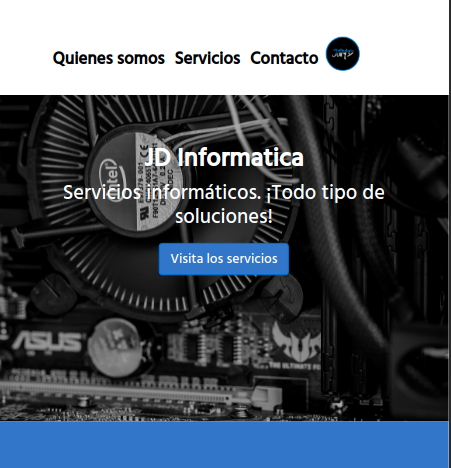
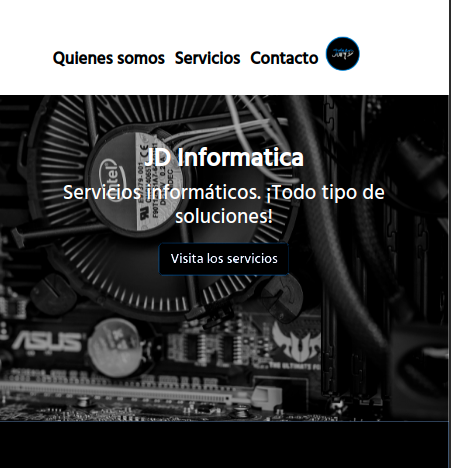
some changes in design, esp/eng next

Changed region(s): [[0.0, 0.8974, 1.0, 1.0], [0.3415, 0.5085, 0.6519, 0.5983]]

diff --git a/index.html b/index.html
@@ -11,11 +11,15 @@
   </head>
   <body>
     
+  <section id="navbar">
     <nav class="navbar-expand-lg navbar fixed-top navbar-primary bg-info">
       <div class="container-fluid d-flex flex-row-reverse">
-        <img src="https://www.vectorlogo.zone/logos/devto/devto-icon.svg" alt="Bootstrap" width="35" height="35" class="d-inline-block align-text-top">
-        <a class="navbar-brand fw-bold text-primary" href="#">jd-apprentice</a>
-        <button class="navbar-toggler badge bg-secondary border bg-dark" type="button" data-bs-toggle="collapse" data-bs-target="#navbarSupportedContent" aria-controls="navbarSupportedContent" aria-expanded="false" aria-label="Toggle navigation">
+        <div class="btn-group" role="group" aria-label="Basic example">
+          <button type="button" class="btn btn-outline-primary fw-bold">ESP</button>
+          <button type="button" class="btn btn-outline-primary fw-bold">ENG</button>
+        </div>
+        <a class="navbar-brand fw-bold text-primary" href="#!">jd-apprentice</a>
+        <button class="navbar-toggler badge bg-info border bg-dark" type="button" data-bs-toggle="collapse" data-bs-target="#navbarSupportedContent" aria-controls="navbarSupportedContent" aria-expanded="false" aria-label="Toggle navigation">
           <span class="navbar-toggler-icon"></span>
         </button>
         <div class="collapse navbar-collapse" id="navbarSupportedContent">
@@ -39,53 +43,56 @@
         </div>
       </div>
     </nav>
+  </section>
 
-  <div class="bg-dark text-secondary px-3 py-3 text-center" id="top">
-      <div class="py-5">
-        <h1 class="display-3 fw-bold text-info" id="texto">Jonathan Dyallo</h1>
-        <div class="col-lg-10 mx-auto">
-          <p class="fs-5 mb-4 text-primary">Soy Jonathan me considero una persona autodidacta; actualmente empecé a tomarme el tiempo de especializarme en varios ámbitos de la programación. Como corto plazo tengo interés en el desarrollo web front end y como largo plazo me interesaría aprender machine learning e inteligencia artificial, también tengo amplio conocimiento en software y hardware para hacer de soporte técnico o atención al cliente en tiendas relacionadas. Aprender es algo que adoro y lo hago en varios ámbitos; espero con ansias poder adquirir un lugar donde brindar, toda mi experiencia y deseos por progresar.</p>
-          <div class="d-grid gap-4 d-sm-flex justify-content-sm-center">
-            <a target="_blank" href="https://drive.google.com/file/d/1jXO0ysA3ODEBogPNKfpUBlseStinUH-i/view?usp=sharing">
-              <button type="button" class="btn btn-outline-info btn-lg px-4">Get CV</button>
-            </a>
-            <a target="_blank" href="https://github.com/jd-apprentice" id="GitHub">
-              <button type="button" class="btn btn-outline-info btn-lg px-4">GitHub</button>
-            </a>
-            <a target="_blank" href="https://www.linkedin.com/in/jonathandyallo/">
-              <button type="button" class="btn btn-outline-info btn-lg px-4">LinkedIn</button>
-            </a>
-          </div>
-          <div class="py-3" id="skills">
-          <h2 class="display-3 mb-1 mt-1 fw-bold text-primary">Skills</h2>
-          
-          <div class="container">
-            <div class="row">
-              <div class="col">
-                <img class="ms-3 mt-3 img-fluid" src="https://camo.githubusercontent.com/7df0b771c958e1037aaf92e60c9491f7d01628c31d70f822aebe153a2daf2c8a/68747470733a2f2f7777772e766563746f726c6f676f2e7a6f6e652f6c6f676f732f6769746875622f6769746875622d74696c652e737667" alt="GitHub" width="120">
-                <img class="ms-3 mt-3 img-fluid" src="https://camo.githubusercontent.com/fbfcb9e3dc648adc93bef37c718db16c52f617ad055a26de6dc3c21865c3321d/68747470733a2f2f7777772e766563746f726c6f676f2e7a6f6e652f6c6f676f732f6769742d73636d2f6769742d73636d2d69636f6e2e737667" alt="Git" width="120">
-                <img class="ms-3 mt-3 img-fluid" src="https://camo.githubusercontent.com/e9306bcaa5457a3bb58aa38c9f2fb71e856479bd7a3726204ca07412e45f667f/68747470733a2f2f7777772e766563746f726c6f676f2e7a6f6e652f6c6f676f732f707974686f6e2f707974686f6e2d69636f6e2e737667" alt="Python" width="120">
-                <img class="ms-3 mt-3 img-fluid" src="https://upload.wikimedia.org/wikipedia/commons/thumb/9/99/Unofficial_JavaScript_logo_2.svg/1200px-Unofficial_JavaScript_logo_2.svg.png" alt="Javascript" width="120">
-                <img class="ms-3 mt-3 img-fluid" src="https://camo.githubusercontent.com/bea3c45894fe8d810cfef5e0ba759d28033e0a534186ea1c1b71c70e1a57554f/68747470733a2f2f7777772e766563746f726c6f676f2e7a6f6e652f6c6f676f732f77335f68746d6c352f77335f68746d6c352d69636f6e2e737667" alt="HTML5" width="120">
-                <img class="ms-3 mt-3 img-fluid" src="https://www.vectorlogo.zone/logos/getbootstrap/getbootstrap-icon.svg" alt="Bootstrap" width="120">
+  <section id="top">
+    <div class="bg-dark text-secondary px-3 py-3 text-center">
+        <div class="py-5">
+          <h1 class="display-3 fw-bold text-info" id="texto">Jonathan Dyallo</h1>
+          <div class="col-lg-10 mx-auto">
+            <p class="fs-5 mb-4 text-primary">Soy Jonathan me considero una persona autodidacta; actualmente empecé a tomarme el tiempo de especializarme en varios ámbitos de la programación. Como corto plazo tengo interés en el desarrollo web front end y como largo plazo me interesaría aprender machine learning e inteligencia artificial, también tengo amplio conocimiento en software y hardware para hacer de soporte técnico o atención al cliente en tiendas relacionadas. Aprender es algo que adoro y lo hago en varios ámbitos; espero con ansias poder adquirir un lugar donde brindar, toda mi experiencia y deseos por progresar.</p>
+            <div class="d-grid gap-4 d-sm-flex justify-content-sm-center">
+              <a target="_blank" href="https://drive.google.com/file/d/1jXO0ysA3ODEBogPNKfpUBlseStinUH-i/view?usp=sharing">
+                <button type="button" class="btn btn-outline-info btn-lg px-4">Get CV</button>
+              </a>
+              <a target="_blank" href="https://github.com/jd-apprentice" id="GitHub">
+                <button type="button" class="btn btn-outline-info btn-lg px-4">GitHub</button>
+              </a>
+              <a target="_blank" href="https://www.linkedin.com/in/jonathandyallo/">
+                <button type="button" class="btn btn-outline-info btn-lg px-4">LinkedIn</button>
+              </a>
+            </div>
+            <div class="py-3" id="skills">
+              <h2 class="display-3 mb-1 mt-1 fw-bold text-primary">Skills</h2>
+            <div class="container">
+              <div class="row">
+                  <div class="col">
+                    <img class="ms-3 mt-3 img-fluid" src="img/svg celeste/logo-javascript.png" alt="Javascript" width="120">
+                    <img class="ms-3 mt-3 img-fluid" src="img/svg celeste/bootstrap-42.png" alt="Bootstrap" width="120">
+                    <img class="ms-3 mt-3 img-fluid" src="img/svg celeste/html55.png" alt="HTML5" width="100">
+                    <img class="ms-3 mt-3 img-fluid" src="img/svg celeste/python-5.png" alt="Python" width="120">
+                    <img class="ms-3 mt-3 img-fluid" src="img/svg celeste/ubuntu-4.png" alt="Ubuntu" width="120">
+                    <img class="ms-3 mt-3 img-fluid" src="img/svg celeste/github-icon-1.png" alt="GitHub" width="120">
+                    <img class="ms-3 mt-3 img-fluid" src="img/svg celeste/git-icon.png" alt="Git" width="120">               
+                  </div>
+                </div>
               </div>
             </div>
           </div>
         </div>
-        </div>
-      </div>
-    <div class="b-example-divider mb-0"></div>
-  </div>
+      <div class="b-example-divider mb-0"></div>
+    </div>
+  </section>
 
   <!-- Works Section -->
 
   <div class="py-2">
-    <h2 class="display-3 mt-1 fw-bold text-primary d-flex justify-content-center" id="Works">Works</h2>
+    <h2 class="display-3 mt-1 fw-bold text-info d-flex justify-content-center" id="Works">Works</h2>
   </div>
   
     <div class="container">
       <div class="card-group">
-            <div class="col mx-3 my-5" style="height: 500px;">
+            <div id="tribute" class="col mx-3 my-5" style="height: 500px;">
               <p class="fw-bold fs-2 display-2 lh-1">Tribute Page</p>
               <div class=" card border-primary mb-3 card card-cover h-100 overflow-hidden text-white bg-dark rounded-5 shadow-lg" style="background-image: url('img/card1.png'); background-position: center; background-size: cover; background-repeat: no-repeat;">
                 <div class="d-flex flex-column h-100 p-5 pb-3 text-dark text-shadow-1">
@@ -95,13 +102,13 @@
                     </li>
                     <li class="d-flex align-items-center me-2 fs-3">
                       <svg class="bi me-2" width="1em" height="1em"></svg>
-                      <a class="text-decoration-none badge bg-dark" target="_blank" href="https://github.com/jd-apprentice/html-css/tree/main/FreeCodeCamp/TributePage">
+                      <a class="text-decoration-none badge bg-info" target="_blank" href="https://github.com/jd-apprentice/html-css/tree/main/FreeCodeCamp/TributePage">
                         <small>GitHub</small>
                       </a>
                     </li>
                     <li class="d-flex align-items-center me-3 fs-3">
                       <svg class="bi me-2" width="1em" height="1em"></svg>
-                      <a class="text-decoration-none badge bg-dark" target="_blank" href="https://jd-apprentice.github.io/html-css/FreeCodeCamp/TributePage">
+                      <a class="text-decoration-none badge bg-info" target="_blank" href="https://jd-apprentice.github.io/html-css/FreeCodeCamp/TributePage">
                         <small>Demo</small>
                       </a>
                     </li>
@@ -120,13 +127,13 @@
                     </li>
                     <li class="d-flex align-items-center me-2 fs-3">
                       <svg class="bi me-2" width="1em" height="1em"></svg>
-                      <a class="text-decoration-none badge bg-dark" target="_blank" href="https://github.com/jd-apprentice/html-css/tree/main/Portfolio">
+                      <a class="text-decoration-none badge bg-info" target="_blank" href="https://github.com/jd-apprentice/html-css/tree/main/Portfolio">
                         <small>GitHub</small>
                       </a>
                     </li>
                     <li class="d-flex align-items-center me-3 fs-3">
                       <svg class="bi me-2" width="1em" height="1em"></svg>
-                      <a class="text-decoration-none badge bg-dark" target="_blank" href="https://jd-apprentice.github.io/html-css/Portfolio/">
+                      <a class="text-decoration-none badge bg-info" target="_blank" href="https://jd-apprentice.github.io/html-css/Portfolio/">
                         <small>Demo</small>
                       </a>
                     </li>
@@ -137,7 +144,7 @@
 
             <div class="col mx-3 my-5" style="height: 500px;">
               <p class="fw-bold fs-2 display-2 lh-1">jd-Informatica</p>
-              <div class="card border-primary mb-3 card card-cover h-100 overflow-hidden text-white bg-dark rounded-5 shadow-lg" style="background-image: url('img/card6.png'); background-position: center; background-size: cover; background-repeat: no-repeat;">
+              <div class="card border-primary mb-3 card card-cover h-100 overflow-hidden text-white bg-white rounded-5 shadow-lg" style="background-image: url('img/card6.png'); background-position: center; background-size: cover; background-repeat: no-repeat;">
                 <div class="d-flex flex-column h-100 p-5 pb-3 text-dark text-shadow-1">
                   <ul class="d-flex list-unstyled mt-auto">
                     <li class="me-auto">
@@ -145,13 +152,13 @@
                     </li>
                     <li class="d-flex align-items-center me-2 fs-3">
                       <svg class="bi me-2" width="1em" height="1em"></svg>
-                      <a class="text-decoration-none badge bg-dark" target="_blank" href="https://github.com/jd-apprentice/html-css/tree/main/jd-Informatica">
+                      <a class="text-decoration-none badge bg-info" target="_blank" href="https://github.com/jd-apprentice/html-css/tree/main/jd-Informatica">
                         <small>GitHub</small>
                       </a>
                     </li>
                     <li class="d-flex align-items-center me-3 fs-3">
                       <svg class="bi me-2" width="1em" height="1em"></svg>
-                      <a class="text-decoration-none badge bg-dark" target="_blank" href="https://jd-apprentice.github.io/html-css/jd-Informatica/">
+                      <a class="text-decoration-none badge bg-info" target="_blank" href="https://jd-apprentice.github.io/html-css/jd-Informatica/">
                         <small>Demo</small>
                       </a>
                     </li>
@@ -162,7 +169,7 @@
 
             <div class="col mx-3 my-5" style="height: 500px;">
               <p class="fw-bold fs-2 display-2 lh-1">Password Generator</p>
-              <div class="card border-primary mb-3 card card-cover h-100 overflow-hidden text-white bg-dark rounded-5 shadow-lg" style="background-image: url('img/card8.png'); background-position: center; background-size: cover; background-repeat: no-repeat;">
+              <div class="card border-primary mb-3 card card-cover h-100 overflow-hidden text-white bg-white rounded-5 shadow-lg" style="background-image: url('img/card8.png'); background-position: center; background-size: contain; background-repeat: no-repeat;">
                 <div class="d-flex flex-column h-100 p-5 pb-3 text-dark text-shadow-1">
                   <ul class="d-flex list-unstyled mt-auto">
                     <li class="me-auto">
@@ -170,13 +177,13 @@
                     </li>
                     <li class="d-flex align-items-center me-2 fs-3">
                       <svg class="bi me-2" width="1em" height="1em"></svg>
-                      <a class="text-decoration-none badge bg-dark" target="_blank" href="https://github.com/jd-apprentice/python/blob/main/GUI%20Scripts/PasswordGenerator.pyw">
+                      <a class="text-decoration-none badge bg-info" target="_blank" href="https://github.com/jd-apprentice/python/blob/main/GUI%20Scripts/PasswordGenerator.pyw">
                         <small>GitHub</small>
                       </a>
                     </li>
                     <li class="d-flex align-items-center me-3 fs-3">
                       <svg class="bi me-2" width="1em" height="1em"></svg>
-                      <a class="text-decoration-none badge bg-dark" target="_blank" href="#">
+                      <a class="text-decoration-none badge bg-info" target="_blank" href="#">
                         <small>Demo</small>
                       </a>
                     </li>
@@ -186,8 +193,8 @@
             </div>
       
             <div class="col mx-3 my-5" style="height: 500px;">
-              <p class="fw-bold fs-2 display-2 lh-1">Notepad</p>
-              <div class="card border-primary mb-3 card card-cover h-100 overflow-hidden text-white bg-dark rounded-5 shadow-lg my-4" style="background-image: url('img/notepad.png'); background-size: cover; background-repeat: no-repeat;">
+              <p class="fw-bold fs-2 display-2 lh-1">API Animals</p>
+              <div class="card border-primary mb-3 card card-cover h-100 overflow-hidden text-white bg-white rounded-5 shadow-lg my-4" style="background-image: url('img/card3.png'); background-position: center; background-size: contain; background-repeat: no-repeat;">
                 <div class="d-flex flex-column h-100 p-5 pb-3 text-dark text-shadow-1">
                   <ul class="d-flex list-unstyled mt-auto">
                     <li class="me-auto">
@@ -195,13 +202,13 @@
                     </li>
                     <li class="d-flex align-items-center me-2 fs-3">
                       <svg class="bi me-2" width="1em" height="1em"></svg>
-                      <a class="text-decoration-none badge bg-dark" target="_blank" href="https://github.com/jd-apprentice/python/blob/main/GUI%20Scripts/NotePad.pyw">
+                      <a class="text-decoration-none badge bg-info" target="_blank" href="https://github.com/jd-apprentice/javascript/tree/main/AnimalesAPI">
                         <small>GitHub</small>
                       </a>
                     </li>
                     <li class="d-flex align-items-center me-3 fs-3">
                       <svg class="bi me-2" width="1em" height="1em"></svg>
-                      <a class="text-decoration-none badge bg-dark" target="_blank" href="#">
+                      <a class="text-decoration-none badge bg-info" target="_blank" href="https://jd-apprentice.github.io/javascript/AnimalesAPI/">
                         <small>Demo</small>
                       </a>
                     </li>
@@ -212,7 +219,7 @@
       
             <div class="col mx-3 my-5" style="height: 500px;">
               <p class="fw-bold fs-2 display-2 lh-1">Calculator Javascript</p>
-              <div class="card border-primary mb-3 card card-cover h-100 overflow-hidden text-dark bg-dark rounded-5 shadow-lg my-4" style="background-image: url('img/calculadora.png'); background-position: center; background-repeat: no-repeat; background-size: cover;">
+              <div class="card border-primary mb-3 card card-cover h-100 overflow-hidden text-dark bg-white rounded-5 shadow-lg my-4" style="background-image: url('img/calculadora.png'); background-position: center; background-repeat: no-repeat; background-size: contain;">
                 <div class="d-flex flex-column h-100 p-5 pb-3 text-shadow-1">
                   <ul class="d-flex list-unstyled mt-auto">
                     <li class="me-auto">
@@ -220,13 +227,13 @@
                     </li>
                     <li class="d-flex align-items-center me-3 fs-3">
                       <svg class="bi me-2" width="1em" height="1em"></svg>
-                      <a class="text-decoration-none badge bg-dark" target="_blank" href="https://github.com/jd-apprentice/javascript/tree/main/Calculadora%20js">
+                      <a class="text-decoration-none badge bg-info" target="_blank" href="https://github.com/jd-apprentice/javascript/tree/main/Calculadora%20js">
                         <small>GitHub</small>
                       </a>
                     </li>
                     <li class="d-flex align-items-center me-3 fs-3">
                       <svg class="bi me-2" width="1em" height="1em"></svg>
-                      <a class="text-decoration-none badge bg-dark" target="_blank" href="https://jd-apprentice.github.io/javascript/Calculadora%20js/">
+                      <a class="text-decoration-none badge bg-info" target="_blank" href="https://jd-apprentice.github.io/javascript/Calculadora%20js/">
                         <small>Demo</small>
                       </a>
                     </li>
